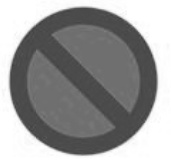
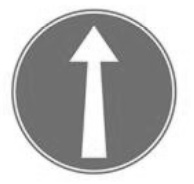
Information signs

diff --git a/main.py b/main.py
@@ -8,7 +8,7 @@ import numpy as np
 
 
 # load input and convert it to gray scale 
-imageA = cv.imread("park.jpg")
+imageA = cv.imread("up.jpg")
 grayA = cv.cvtColor(imageA, cv.COLOR_BGR2GRAY)
 cv.imwrite('grayimage.jpg', grayA)
 
@@ -28,14 +28,14 @@ for  i in range(len(contours)):
     if len(contours[i]) > 15:
         contoursN[count] = cv.approxPolyDP(contours[i],10,True)
         count = count + 1
-print("number of contours:", count)
+#print("number of contours:", count)
 
 
 #printing the approximation
-for  i in range(0,count):
-       print("contour"+str(i)+" size ="+str(len(contoursN[i]))) 
+# for  i in range(0,count):
+#        print("contour"+str(i)+" size ="+str(len(contoursN[i]))) 
         
-
+# Triangle Detection
 if len(contoursN[0]) == 3:
     if count == 2:
         point1 = contoursN[0][1][0][1]
@@ -50,14 +50,39 @@ if len(contoursN[0]) == 3:
         print("bumby road")
     elif count == 5:
         print("traffic lights ahead")
+#Circle Detection
 elif len(contoursN[0]) > 6:
-    print("",len(contoursN)-2)
+    #print("",len(contoursN)-2)
     if count == 1:
         print("No Parking")
     if count == 3:
         print("No Entry")
     elif count == 2 :
         print("Stop")
+    elif count == 5:
+        print("end speed limit")
+    elif count == 4:
+        print("right")
+    elif count == 9:
+        if len(contoursN[2]) == 2:
+            print("left")
+        elif len(contoursN[2]) == 4:
+            print("up")
+#Rectangle Detection
+elif len(contoursN[0]) == 4:
+    if count == 21:
+        print("major road sign")
+    elif count == 6:
+        print("freeway entry")
+    elif count == 13:
+        print("exit")
+#othershapes Detection
+elif len(contoursN[0]) == 5:
+    if count == 18:
+        print("local destination")
+    elif count == 23:
+        print("tourist destination")
+
 
 
     
